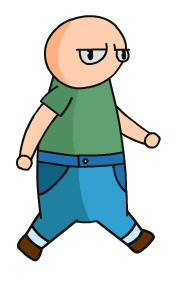
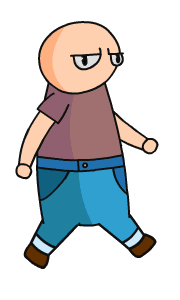
Теперь свинюшки выпадают рандомно, их необязательно две

Changed region(s): [[0.0833, 0.03, 0.8889, 0.9]]

diff --git a/person.cpp b/person.cpp
@@ -4,14 +4,20 @@
 #include "mainwindow.h"
 #include <QDebug>
 
-Person::Person(int x, int y)
+Person::Person(int x, int y, QString animation_dir)
     : MovingObject (x, y, kPersonHeight, kPersonWidth),
-      run_animation_l(":/resources/animations/Run.png", kPersonHeight, kPersonWidth, kPersonWidth, kPersonHeight),
-      stand_animation_l(":/resources/animations/Stand.png", kPersonHeight, kPersonWidth, kPersonWidth, kPersonHeight),
-      fly_animation_l(":/resources/animations/Fly.png", kPersonHeight, kPersonWidth, kPersonWidth, kPersonHeight),
-      run_animation_r(Reflect(run_animation_l)),
-      stand_animation_r(Reflect(stand_animation_l)),
-      fly_animation_r(Reflect(fly_animation_l))
+      run_animation_r(":/resources/animations/" + animation_dir + "/Run.png", 300, 180, kPersonWidth, kPersonHeight),
+      stand_animation_r(":/resources/animations/" + animation_dir + "/Stand.png", 300, 180, kPersonWidth, kPersonHeight),
+      fly_animation_r(":/resources/animations/" + animation_dir + "/Fly.png", 300, 180, kPersonWidth, kPersonHeight),
+      run_animation_l(Reflect(run_animation_r)),
+      stand_animation_l(Reflect(stand_animation_r)),
+      fly_animation_l(Reflect(fly_animation_r)),
+      run_animation_r_pig(":/resources/animations/" + animation_dir + "/Run_pig.png", 300, 180, kPersonWidth, kPersonHeight),
+      stand_animation_r_pig(":/resources/animations/" + animation_dir + "/Stand_pig.png", 300, 180, kPersonWidth, kPersonHeight),
+      fly_animation_r_pig(":/resources/animations/" + animation_dir + "/Fly_pig.png", 300, 180, kPersonWidth, kPersonHeight),
+      run_animation_l_pig(Reflect(run_animation_r_pig)),
+      stand_animation_l_pig(Reflect(stand_animation_r_pig)),
+      fly_animation_l_pig(Reflect(fly_animation_r_pig))
 {
     qDebug() << "PERSON CONSTRUCTOR!";
 }
@@ -115,16 +121,39 @@ void Person::UpdateAnimation() {
         if (Left_pressed || Right_pressed) {
             state = State::RUNNING;
         } else {
-            state = State::STANDING;
+            if (current_side == Side::LEFT) {
+                if (!armed_ && run_animation_l.cur_frame_ == run_animation_l.frames_.begin()) {
+                    state = State::STANDING;
+                }
+                if (armed_ && run_animation_l_pig.cur_frame_ == run_animation_l_pig.frames_.begin()) {
+                    state = State::STANDING;
+                }
+            } else {
+                if (!armed_ && run_animation_r.cur_frame_ == run_animation_r.frames_.begin()) {
+                    state = State::STANDING;
+                }
+                if (armed_ && run_animation_r_pig.cur_frame_ == run_animation_r_pig.frames_.begin()) {
+                    state = State::STANDING;
+                }
+            }
         }
     } else {
+        ResetRunAnimation();
         state = State::FLYING;
     }
 
     if (current_side == Side::LEFT) {
-        UpdateAnimationUniversal(run_animation_l, stand_animation_l, fly_animation_l);
+        if (armed_) {
+            UpdateAnimationUniversal(run_animation_l_pig, stand_animation_l_pig, fly_animation_l_pig);
+        } else {
+            UpdateAnimationUniversal(run_animation_l, stand_animation_l, fly_animation_l);
+        }
     } else {
-        UpdateAnimationUniversal(run_animation_r, stand_animation_r, fly_animation_r);
+        if (armed_) {
+            UpdateAnimationUniversal(run_animation_r_pig, stand_animation_r_pig, fly_animation_r_pig);
+        } else {
+            UpdateAnimationUniversal(run_animation_r, stand_animation_r, fly_animation_r);
+        }
     }
 }
 
@@ -153,11 +182,21 @@ void Person::DrawUniversal(QPainter& painter,
 
 void Person::Draw(QPainter& painter) const {
     if (current_side == Side::LEFT) {
-        DrawUniversal(painter, run_animation_l,
-                      stand_animation_l, fly_animation_l);
+        if (!armed_) {
+            DrawUniversal(painter, run_animation_l,
+                          stand_animation_l, fly_animation_l);
+        } else {
+            DrawUniversal(painter, run_animation_l_pig,
+                          stand_animation_l_pig, fly_animation_l_pig);
+        }
     } else {
-        DrawUniversal(painter, run_animation_r,
-                      stand_animation_r, fly_animation_r);
+        if (!armed_) {
+            DrawUniversal(painter, run_animation_r,
+                          stand_animation_r, fly_animation_r);
+        } else {
+            DrawUniversal(painter, run_animation_r_pig,
+                          stand_animation_r_pig, fly_animation_r_pig);
+        }
     }
 }
 
@@ -167,6 +206,13 @@ void Person::DecreaseHealthLevel(){
         health_level -= kHealthDecrease;
     }
     qDebug() << "down" << health_level;
+}
+
+void Person::ResetRunAnimation() {
+    run_animation_l.cur_frame_ = run_animation_l.frames_.begin();
+    run_animation_r.cur_frame_ = run_animation_r.frames_.begin();
+    run_animation_l_pig.cur_frame_ = run_animation_l_pig.frames_.begin();
+    run_animation_r_pig.cur_frame_ = run_animation_r_pig.frames_.begin();
 }
 
 void Person::IncreaseHelthLevel(){

diff --git a/person.h b/person.h
@@ -11,7 +11,7 @@ class Person: public MovingObject
 {
 public:
 
-    Person(int x, int y);
+    Person(int x, int y, QString animation_dir);
 
     void CatchPressedKey(int key, const int up_key, const int left_key,
                          const int down_key, const int right_key);
@@ -35,13 +35,21 @@ public:
     bool Down_pressed = false;
 
     // Объекты, отвечающие за проигрывание анимации
+    Animation run_animation_r;
+    Animation stand_animation_r;
+    Animation fly_animation_r;
+
     Animation run_animation_l;
     Animation stand_animation_l;
     Animation fly_animation_l;
 
-    Animation run_animation_r;
-    Animation stand_animation_r;
-    Animation fly_animation_r;
+    Animation run_animation_r_pig;
+    Animation stand_animation_r_pig;
+    Animation fly_animation_r_pig;
+
+    Animation run_animation_l_pig;
+    Animation stand_animation_l_pig;
+    Animation fly_animation_l_pig;
 
     std::list<FreePig>::iterator HitsPig(std::list<FreePig>& pigs);
 
@@ -49,6 +57,7 @@ public:
 
     void DecreaseHealthLevel();
     void IncreaseHelthLevel();
+    void ResetRunAnimation();
     
     enum class State {
         RUNNING,

diff --git a/mainwindow.cpp b/mainwindow.cpp
@@ -15,9 +15,11 @@ MainWindow::MainWindow(QWidget *parent)
     pig_flying_l(":/resources/animations/pig_flying.png", 400, 400, kPigSize, kPigSize),
     pig_flying_r(Reflect(pig_flying_l))
 {
+
     qDebug() << "HERE! ";
     pig_caught.setSource(QUrl::fromLocalFile(":/resources/sounds/pig_caught.mp3"));
     pig_caught.setVolume(0.25f);
+
     startTimer(9);
 }
 
@@ -32,6 +34,12 @@ void MainWindow::timerEvent(QTimerEvent *) {
             time = 0;
             player.IncreaseHelthLevel();
         }
+    }
+
+    if (free_pigs.empty()) {
+        free_pigs.insert(free_pigs.end(), GeneratePig());
+    } else if (rand() % 500 == 0 && free_pigs.size() < kPigCount) {
+        free_pigs.insert(free_pigs.end(), GeneratePig());
     }
 
     pig_running_l.NextFrame();
@@ -110,7 +118,7 @@ void MainWindow::ThrowPig(Person& player) {
             flying_pigs.push_back(pig);
         }
         player.armed_ = 0;
-        free_pigs.push_back(GeneratePig());
+        //free_pigs.push_back(GeneratePig());
     } else {
         std::list<FreePig>::iterator current_pig = player.HitsPig(free_pigs);
         qDebug() << current_pig->xPos() << ' ' << current_pig->yPos();

diff --git a/mainwindow.h b/mainwindow.h
@@ -28,11 +28,10 @@ public:
     Animation pig_flying_l;
     Animation pig_flying_r;
 
-    std::vector<Person> players = {{450, 120},
-                                   {800, 200}};
+    std::vector<Person> players = {{450, 120, "player_1"},
+                                   {800, 200, "player_2"}};
 
-    std::list<FreePig> free_pigs = {{100, 10, &pig_running_l, &pig_running_r},
-                                    {400, 10, &pig_running_l, &pig_running_r}};
+    std::list<FreePig> free_pigs;
 
     std::list<ShotPig> flying_pigs = {};
 
@@ -47,7 +46,7 @@ public:
                                  {327, 327, 30, 270},
                                  {935, 327, 30, 270},
                                  {1193, 160, 30, 270},
-                                 {1068, 476, 30, 270},
+                                 {1068, 486, 30, 270},
                                  {-52, 486, 30, 270},
                                  {122, 656, 30, 1200}};
 

diff --git a/constants.h b/constants.h
@@ -9,15 +9,17 @@
 const int kScreenWidth = 1440;
 const int kScreenHeight = 810;
 
-const int kPersonHeight = 100;
-const int kPersonWidth = 60;
-const int kPigSize = 70;
+const int kPigCount = 8;
+
+const int kPersonHeight = 110;
+const int kPersonWidth = 66;
+const int kPigSize = 55;
 
 const double kJumpPower = -14;
 const double kSpeed = 0.5;
 const double kGravitation = 0.4;
 const double kSpeedLimit = 5;
-const double kSpeedReduce = 0.25;
+const double kSpeedReduce = 0.125;
 const double kShotSpeed = 10.5;
 // Высота полёта свиньи над уровнем земли
 const double kPigHeight = 15;

diff --git a/animation.cpp b/animation.cpp
@@ -11,7 +11,7 @@ Animation Reflect(const Animation& animation) {
     return result;
 }
 
-Animation::Animation(const char* img_path, int frame_height, int frame_width, int dst_height, int dst_width)
+Animation::Animation(QString img_path, int frame_height, int frame_width, int dst_height, int dst_width)
 {
     QPixmap image(img_path);
     for (int x = 0; x + frame_width <= image.width(); x += frame_width) {

diff --git a/animation.h b/animation.h
@@ -8,7 +8,7 @@
 class Animation
 {
 public:
-    Animation(const char* img_path, int frame_height, int frame_width, int dst_height, int dst_width);
+    Animation(QString path, int frame_height, int frame_width, int dst_height, int dst_width);
     Animation(const Animation& lhs);
 
     void NextFrame();
